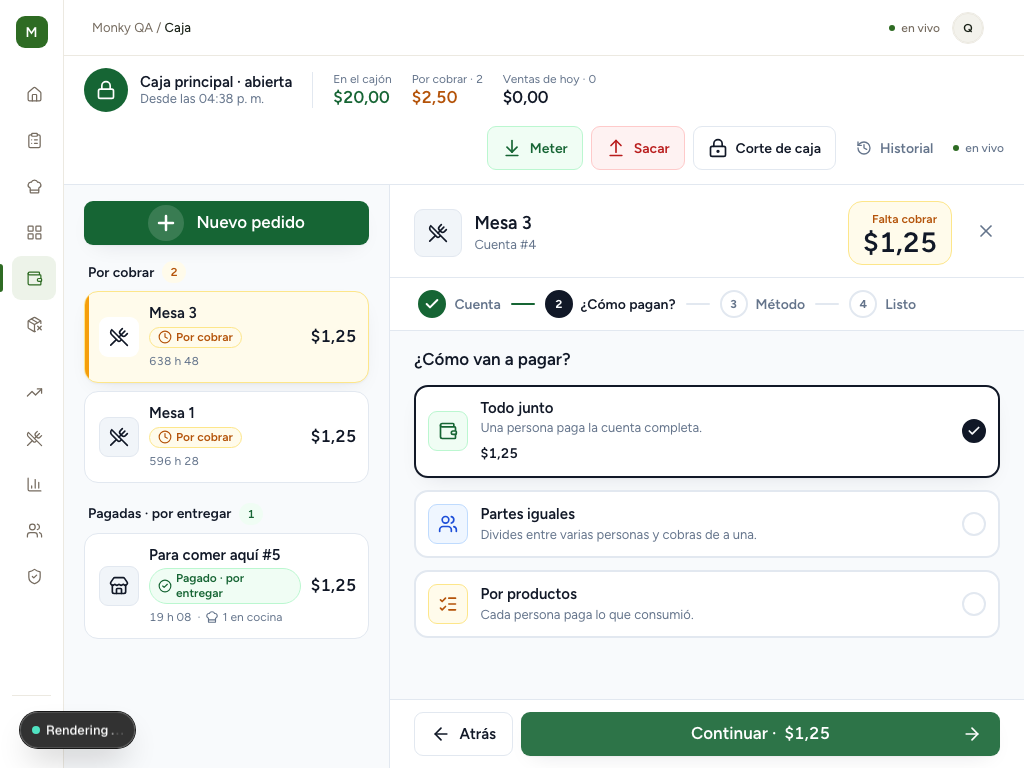
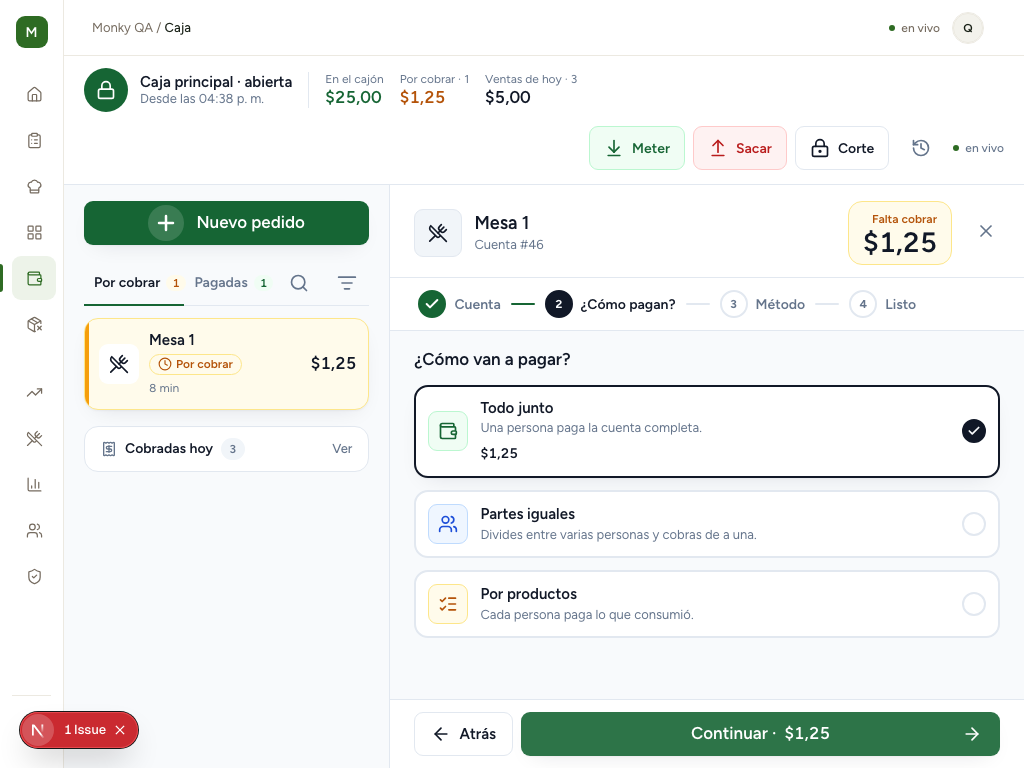
feat(caja): show delivered count and a detail link on settled bills
Entregado X de Y comes from each order's kitchen status. Ver detalle
opens the existing ticket view. Screenshots refreshed in
docs/design/caja/v2.

diff --git a/app/src/app/(dashboard)/cash/_components/checkout/bill-totals.tsx b/app/src/app/(dashboard)/cash/_components/checkout/bill-totals.tsx
@@ -3,6 +3,37 @@ import { cn, formatPrice } from "@/lib/utils";
 import type { Bill } from "@/types/billing";
 
 /**
+ * Productos entregados sobre el total de la cuenta (unidades), según el
+ * estado de cada pedido en cocina. Las líneas canceladas no cuentan.
+ */
+export function deliveredCount(bill: Bill): { delivered: number; total: number } {
+  let delivered = 0;
+  let total = 0;
+  for (const order of bill.orders) {
+    if (!order.billable) continue;
+    for (const item of order.items) {
+      if (item.cancelled) continue;
+      total += item.quantity;
+      if (order.status === "DELIVERED") delivered += item.quantity;
+    }
+  }
+  return { delivered, total };
+}
+
+export function DeliveredRow({ bill }: { bill: Bill }) {
+  const { delivered, total } = deliveredCount(bill);
+  if (total === 0) return null;
+  return (
+    <div className="flex justify-between gap-3">
+      <dt className="text-muted-foreground">Entregado</dt>
+      <dd className={cn("tabular-nums", delivered === total ? "text-money-in-soft-foreground" : "text-attention-soft-foreground")}>
+        {delivered} de {total} {total === 1 ? "producto" : "productos"}
+      </dd>
+    </div>
+  );
+}
+
+/**
  * Totales de la cuenta, tal como los devuelve la RPC: subtotal, descuentos,
  * total, lo ya pagado y el saldo. El saldo va resaltado: verde cuando ya no
  * falta nada, ámbar mientras falte.
@@ -48,6 +79,7 @@ export function BillTotals({
       </div>
       {bill.paid_total > 0 && <Row label="Ya pagado" value={`−${formatPrice(bill.paid_total)}`} accent />}
       {bill.tip_total > 0 && <Row label="Propinas (aparte)" value={formatPrice(bill.tip_total)} />}
+      {bill.status !== "OPEN" && <DeliveredRow bill={bill} />}
       {bill.paid_total > 0 && (
         <div
           className={cn(

diff --git a/app/src/app/(dashboard)/cash/_components/checkout/step-done.tsx b/app/src/app/(dashboard)/cash/_components/checkout/step-done.tsx
@@ -1,7 +1,7 @@
 "use client";
 
 import Link from "next/link";
-import { Check, CircleCheck, Printer } from "lucide-react";
+import { Check, CircleCheck, FileText, Printer } from "lucide-react";
 import { Button } from "@/components/ui/button";
 import { formatPrice } from "@/lib/utils";
 import { SPLIT_MODE } from "@/config/constants";
@@ -9,7 +9,7 @@ import type { SplitProgress } from "@/lib/split-progress";
 import type { Bill, BillPaymentContext } from "@/types/billing";
 import { ChargeTicket } from "../charge-ticket";
 import { PaymentsBlock } from "../payments-block";
-import { BillTotals } from "./bill-totals";
+import { BillTotals, DeliveredRow } from "./bill-totals";
 import { KitchenNotice } from "./kitchen-notice";
 import { StepFooter } from "./step-footer";
 
@@ -105,6 +105,13 @@ export function StepDone({
   ) : (
     <StepFooter primaryLabel="Listo" primaryTone="neutral" onPrimary={onFinish}>
       {(closed || paid) && printTicket}
+      {closed && (
+        <Button asChild variant="outline" className="h-14 flex-1 px-5 text-body font-semibold">
+          <Link href={`/cash/ticket/${bill.id}`} target="_blank" rel="noopener noreferrer">
+            <FileText aria-hidden /> Ver detalle
+          </Link>
+        </Button>
+      )}
     </StepFooter>
   );
 
@@ -184,6 +191,7 @@ export function StepDone({
                     <dd className="tabular-nums text-foreground">{formatPrice(bill.tip_total)}</dd>
                   </div>
                 )}
+                <DeliveredRow bill={bill} />
               </dl>
               {bill.payments.length > 0 && (
                 <PaymentsBlock bill={bill} context={context} onBillChange={() => {}} allowVoid={false} />
